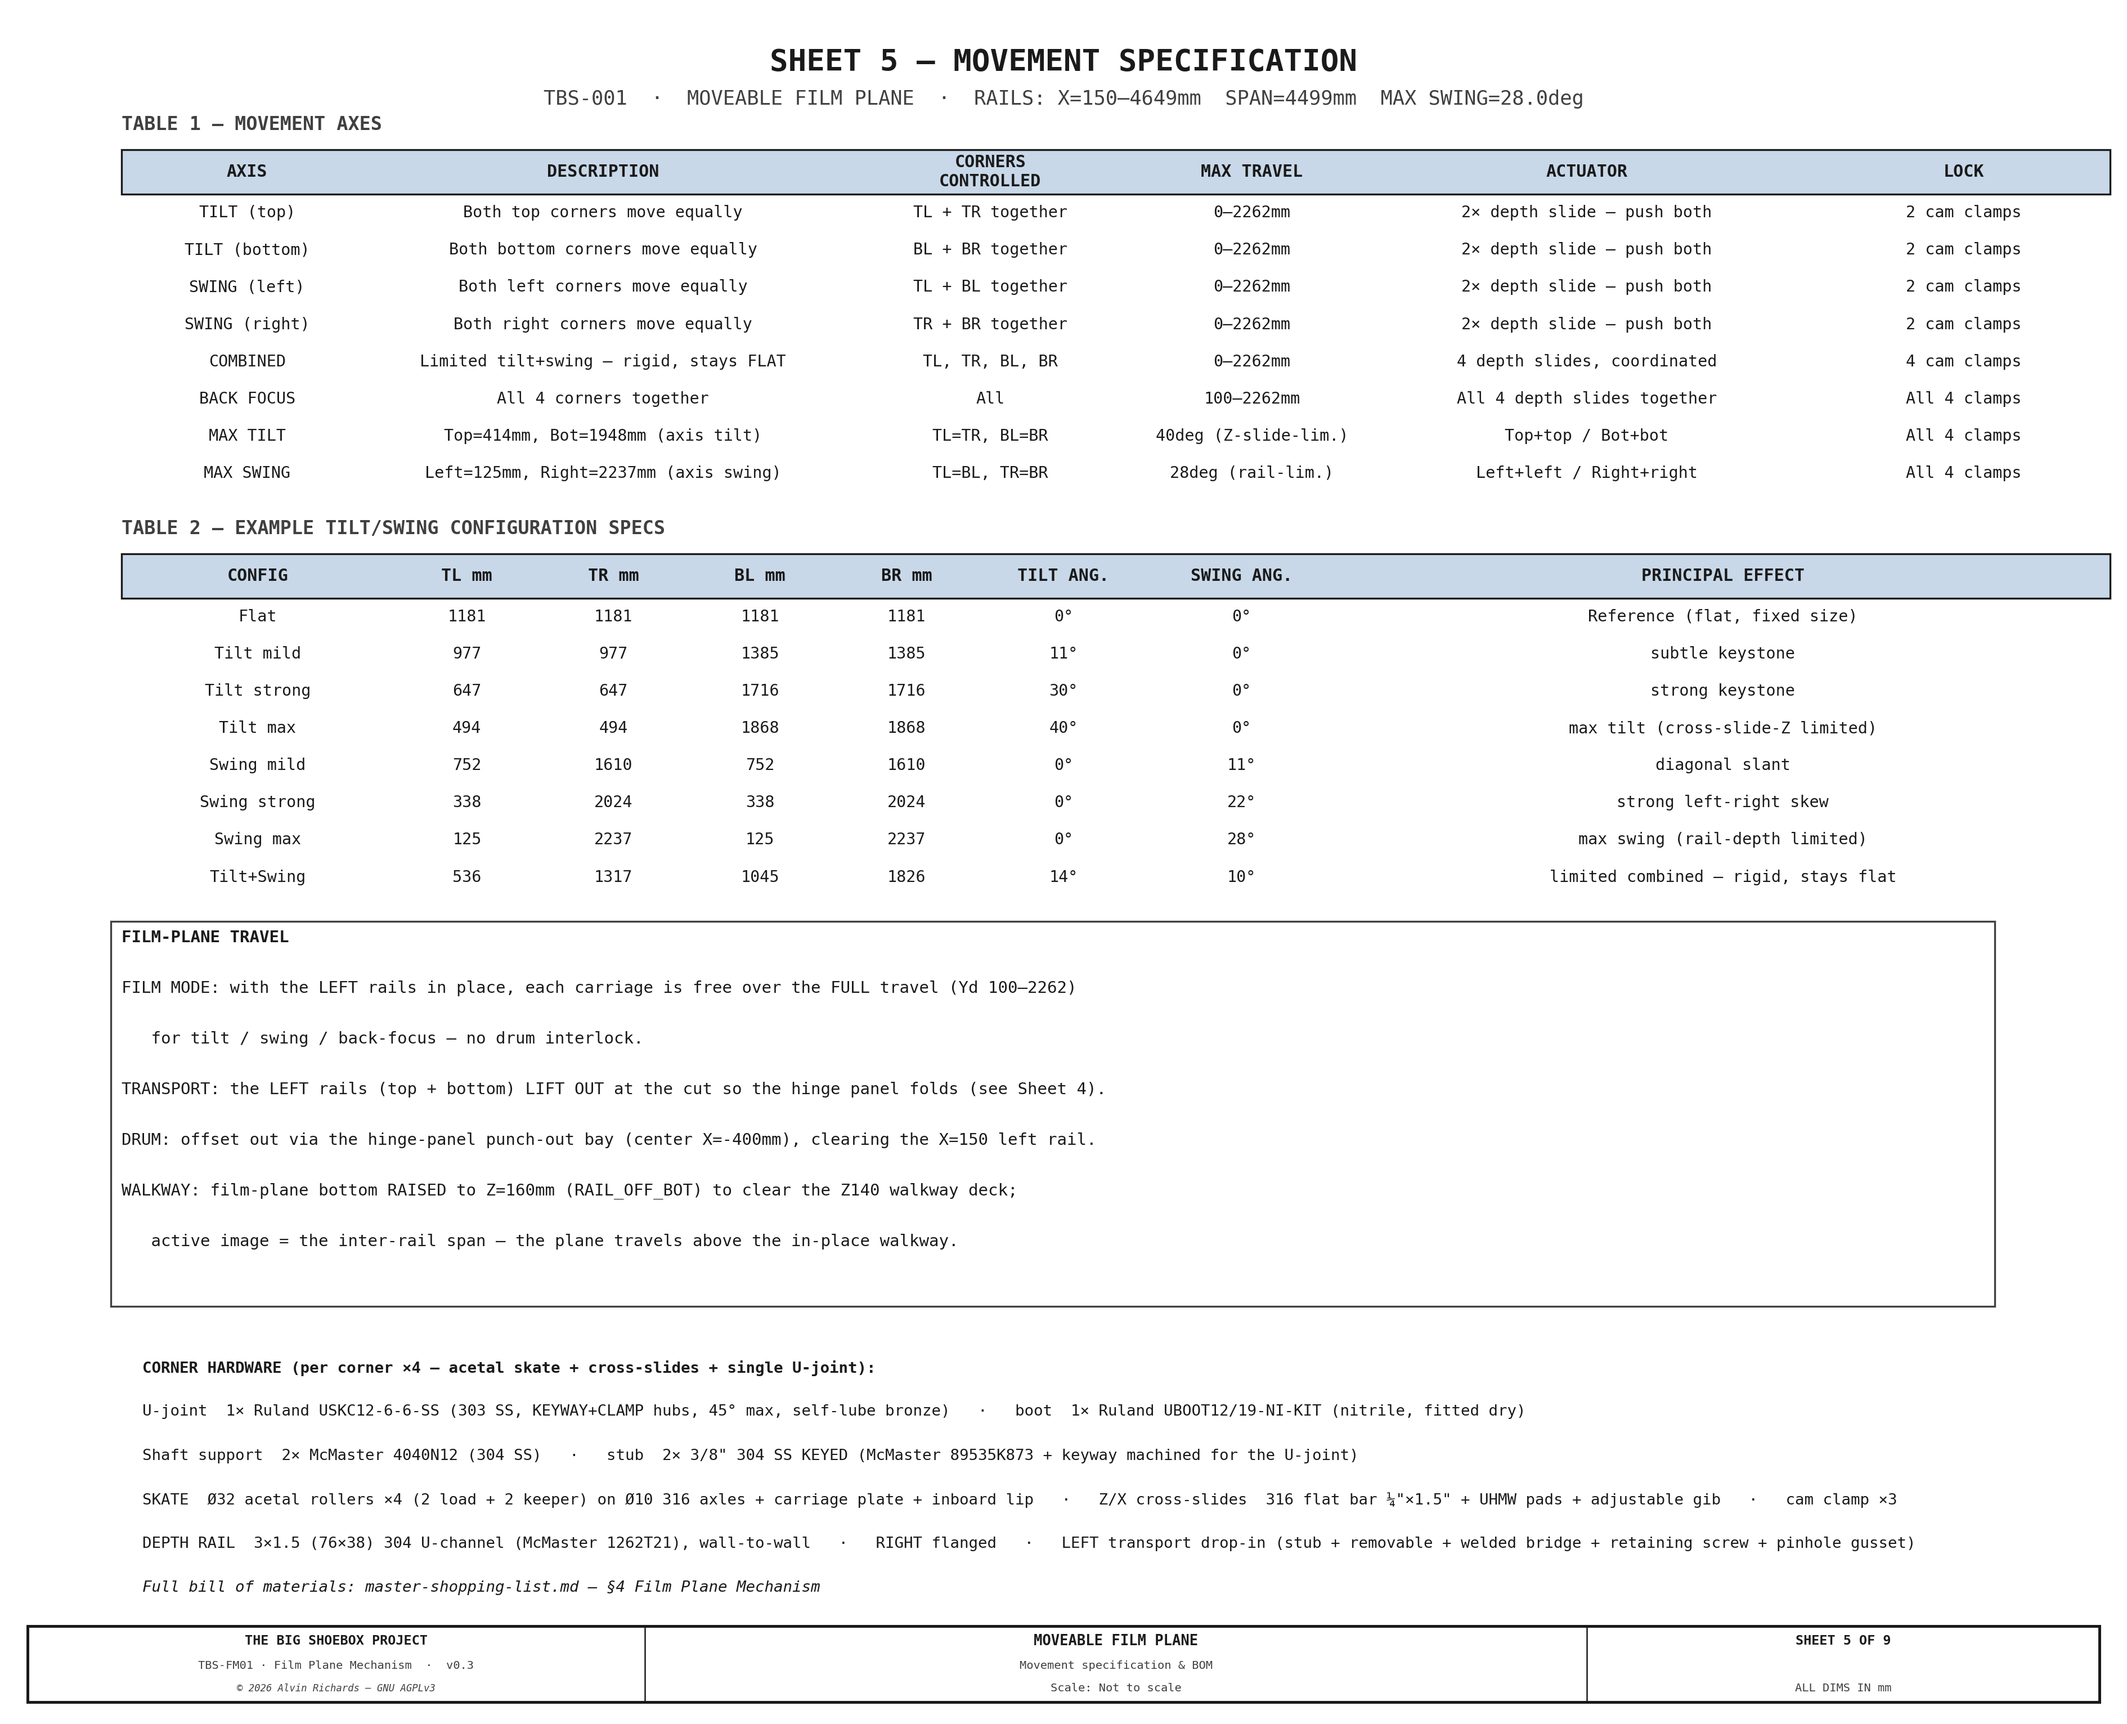
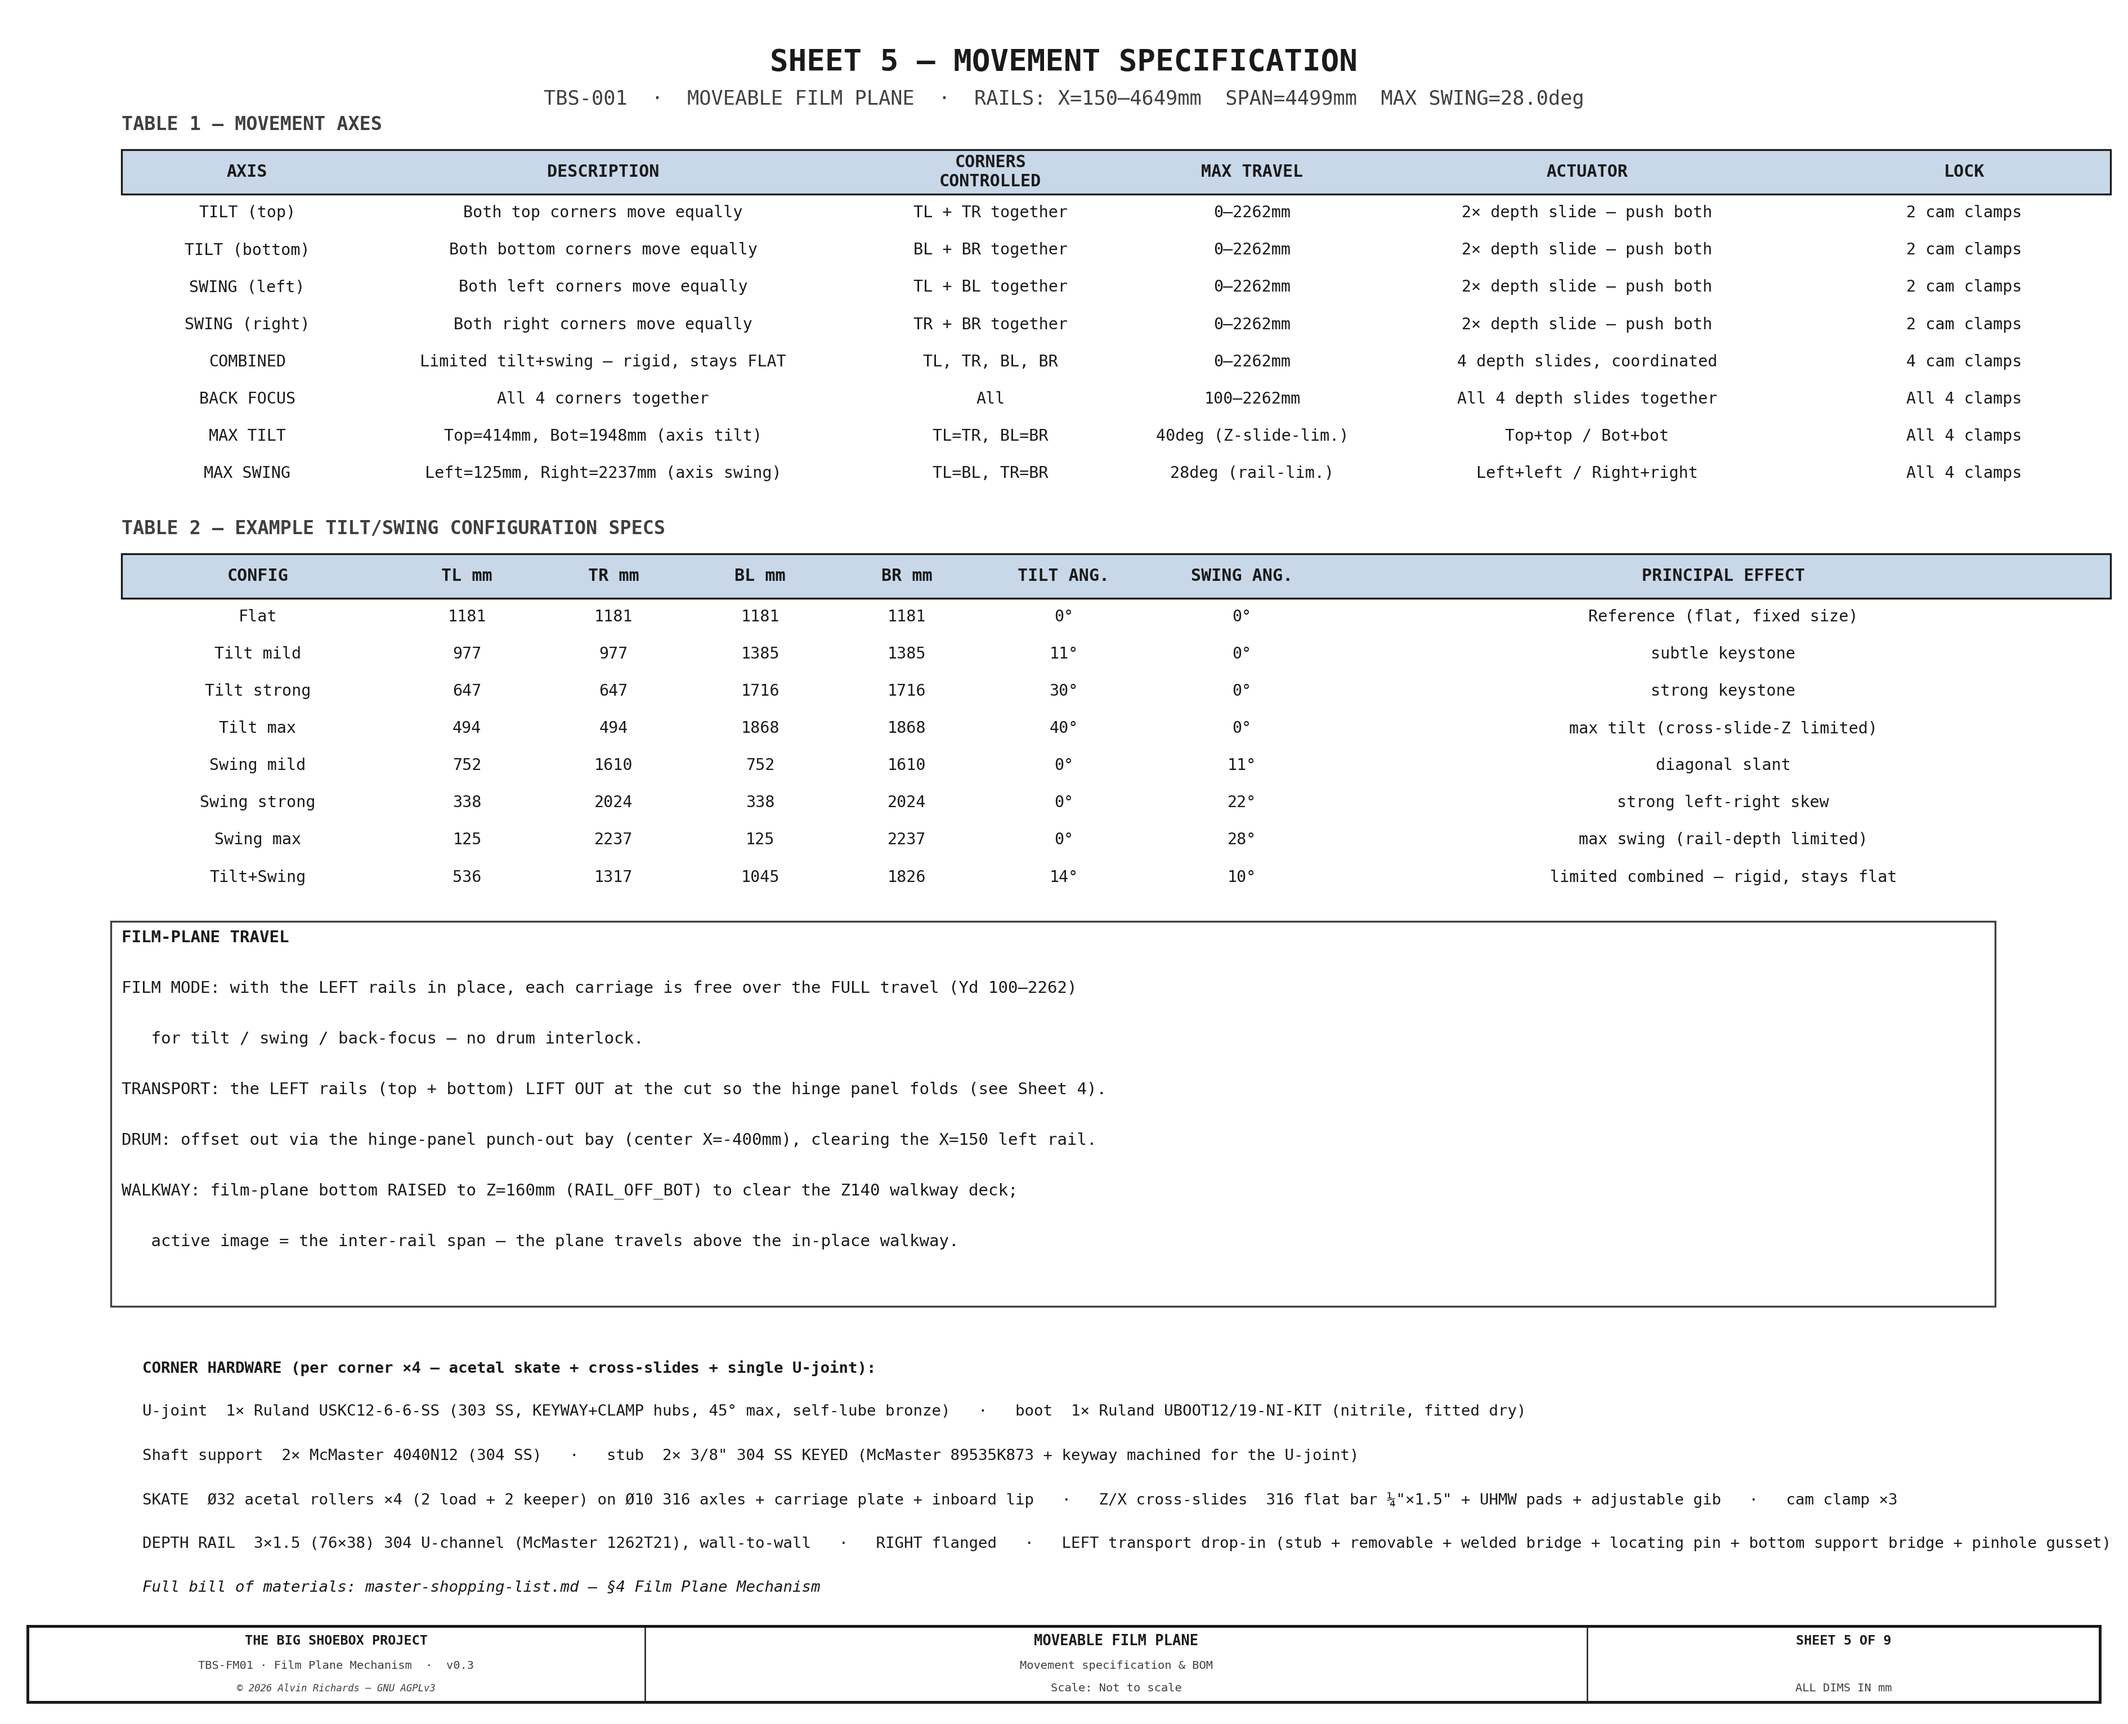
Sheet 4: add bottom support bridge + change retaining screw to locating pin
Sync the 2D to the 3D-review additions:
- Retaining screw → locating PIN, flush to the top of the inner rail (drawing, leader,
  notes 3/5, docstring, Sheet 5 BOM summary).
- New bottom support BRIDGE (welded to the stub, laps under to carry the removable
  beam, ~64mm) drawn under the rail at the cut with its own leader + notes.

diff --git a/src/generators/generate_film_plane_mechanism.py b/src/generators/generate_film_plane_mechanism.py
@@ -1050,8 +1050,8 @@ def transport_elev(ax):
     """LEFT depth rail — TRANSPORT DROP-IN, side elevation (Yd × Z; Yd positions dimensioned, Z schematic).
     For transport the hinge panel folds about the pivot post (Yd PIVOT_YD) and sweeps the X150 rail line, so
     the LEFT rail is SPLIT: a fixed STUB (parks the corner, anchored at the pivot post + far wall) and a
-    REMOVABLE section that lifts out. A welded BRIDGE (welded to the stub) spans the cut; the removable
-    THUMB-SCREWS to it. A length SPLICE at the pinhole end makes 6 ft stock reach; a pinhole-wall GUSSET seats
+    REMOVABLE section that lifts out. A welded BRIDGE (on top, welded to the removable) laps the cut; a
+    locating PIN + a short bottom support bridge secure it. A length SPLICE at the pinhole end makes 6 ft stock reach; a pinhole-wall GUSSET seats
     that end. (RIGHT rail = flanged wall-to-wall, panel at lower right.)"""
     ax.set_xlim(-320, 2660); ax.set_ylim(-235, 185); ax.axis("off")
     rz0, rz1 = 74, 118
@@ -1067,12 +1067,19 @@ def transport_elev(ax):
     # CUT parting line
     ax.plot([LEFT_CUT_YD, LEFT_CUT_YD], [rz0 - 12, rz1 + 14], color=OUT, lw=1.1, dashes=(4, 3), zorder=7)
     # welded BRIDGE — sits ON TOP of the rail at the cut so GRAVITY holds it down; WELDED to the REMOVABLE
-    # (left of cut), it laps + BEARS on the STUB (right of cut). A retaining SCREW into the stub stops it
-    # lifting/sliding (the weight rides the bridge, not the screw).
+    # (left of cut), it laps + BEARS on the STUB (right of cut). A locating PIN drops through it into the
+    # stub — flush to the top of the INNER rail — to stop it lifting/sliding (the weight rides the bridge, not the pin).
     _rect(ax, LEFT_CUT_YD - 96, rz1, 168, 12, C_CAR, z=8)                       # fishplate ON TOP, straddling the cut
     for wx in (LEFT_CUT_YD - 84, LEFT_CUT_YD - 60, LEFT_CUT_YD - 36):           # fillet weld beads (removable side, on top)
         ax.plot([wx, wx + 10], [rz1 + 1, rz1 + 1], color=OUT, lw=2.0, zorder=10)
-    draw_circle(ax, LEFT_CUT_YD + 44, rz1 + 6, 5.5, color=OUT, fill=True, fc=C_PIN, lw=0.9, zorder=11)  # retaining screw (stub side)
+    # locating PIN + hole — through the bridge + top flange; BOTTOM flush to the top of the INNER rail, head on top
+    _flg = 5
+    ax.add_patch(plt.Rectangle((LEFT_CUT_YD + 41, rz1 - _flg), 6, 12 + _flg, fc=C_PIN, ec=OUT, lw=0.7, zorder=11))
+    draw_circle(ax, LEFT_CUT_YD + 44, rz1 + 12, 4, color=OUT, fill=True, fc=C_PIN, lw=0.8, zorder=12)  # pin head, shown on top
+    # bottom support BRIDGE — welded to the STUB, laps UNDER + carries the removable beam (~64mm)
+    _rect(ax, LEFT_CUT_YD - 32, rz0 - 12, 64, 12, C_CAR, z=8)
+    for wx in (LEFT_CUT_YD + 6, LEFT_CUT_YD + 20):                              # fillet weld beads (stub side, underneath)
+        ax.plot([wx, wx + 10], [rz0 - 1, rz0 - 1], color=OUT, lw=2.0, zorder=10)
     # length SPLICE at the pinhole end — on the OUTBOARD WEB-BACK (far side), so shown as a GHOST outline
     ax.add_patch(plt.Rectangle((SPLICE_YD - 55, rz0), 110, rz1 - rz0, fc="none", ec=OUT, lw=1.0, ls=(0, (5, 3)), zorder=8))
     # pinhole-wall gusset/seat (Yd 0)
@@ -1094,7 +1101,9 @@ def transport_elev(ax):
            ha="left", fs=5.8, color=OUT, font=FONT, bbox=LBL_BG)
     leader(ax, 22, rz0 - 18, 60, -58, "pinhole-wall GUSSET / seat",
            ha="left", fs=5.8, color=OUT, font=FONT, bbox=LBL_BG)
-    leader(ax, LEFT_CUT_YD + 44, rz1 + 6, 1380, 150, "welded BRIDGE (ON TOP) — welded to the REMOVABLE; GRAVITY bears it on the STUB;\na retaining SCREW into the stub stops it lifting (weight on the bridge, not the screw)",
+    leader(ax, LEFT_CUT_YD + 44, rz1 + 12, 1380, 150, "welded BRIDGE (ON TOP) — welded to the REMOVABLE; GRAVITY bears it on the STUB;\na locating PIN (flush to the inner-rail top) stops it lifting (weight on the bridge, not the pin)",
+           ha="left", fs=5.8, color=OUT, font=FONT, bbox=LBL_BG)
+    leader(ax, LEFT_CUT_YD, rz0 - 12, LEFT_CUT_YD - 330, -205, "bottom support BRIDGE — welded to the STUB;\nlaps under + carries the removable beam (~64mm)",
            ha="left", fs=5.8, color=OUT, font=FONT, bbox=LBL_BG)
     leader(ax, PIVOT_YD, 30, PIVOT_YD + 30, -150, f"swing PIVOT POST (Ø{PIVOT_POST_OD} CHS)\nanchors the stub — no floor post at the cut",
            ha="left", fs=5.8, color=OUT, font=FONT, bbox=LBL_BG)
@@ -1151,13 +1160,14 @@ def sheet4():
         "bottom) LIFTS OUT. The fixed STUB parks the corner and is anchored at the pivot post + far wall.",
         "3. At the cut: a BRIDGE (fishplate) sits ON TOP and is WELDED to the REMOVABLE beam, lapping onto the "
         "STUB — GRAVITY bears the removable's end on the stub through the bridge (the WEIGHT rides the bridge, "
-        "not the fastener). A retaining SCREW into the stub stops it lifting (hand-releasable): the removable "
-        "drops straight in and the screw stays unloaded. No floor post at the cut — the stub cantilevers only ~"
-        f"{PIVOT_YD - LEFT_CUT_YD}mm from the pivot post, so nothing fouls the sliding carriage.",
+        "not the fastener). A locating PIN drops through into the stub — flush to the top of the INNER rail — "
+        "to stop it lifting (hand-releasable): the removable drops straight in and the pin stays unloaded. A "
+        "short BOTTOM support bridge (~64mm), welded to the stub, laps under to carry the removable's end. No "
+        f"floor post at the cut — the stub cantilevers only ~{PIVOT_YD - LEFT_CUT_YD}mm from the pivot post, so nothing fouls the sliding carriage.",
         "4. Each removable exceeds 6 ft stock, so a length SPLICE sits at the PINHOLE end (Yd ~"
         f"{SPLICE_YD}) — the shortest-throw, least-travelled zone, least likely for the skate to roll over it.",
         "5. The length-SPLICE fishplate sits on the OUTBOARD WEB-BACK (far side, ghosted), clear of the rollers; "
-        "the cut BRIDGE sits on top (gravity-held). U-joint stub→carrier clamp (4040N12) + U-joint body: Sheet 3.",
+        "the cut BRIDGE sits on top (gravity-held) with a short bottom support bridge under. U-joint stub→carrier clamp (4040N12) + U-joint body: Sheet 3.",
     ], 2, 99, 4.1, fs=6.2, title_fs=6.8, color=DIM, width=79, wrap=132, font=FONT)
 
     ax_tb = fig.add_axes([0.03, 0.008, 0.94, 0.052]); ax_tb.set_xlim(0, 1); ax_tb.set_ylim(0, 1)
@@ -1303,7 +1313,7 @@ def sheet5():
         "U-joint  1× Ruland USKC12-6-6-SS (303 SS, KEYWAY+CLAMP hubs, 45° max, self-lube bronze)   ·   boot  1× Ruland UBOOT12/19-NI-KIT (nitrile, fitted dry)",
         "Shaft support  2× McMaster 4040N12 (304 SS)   ·   stub  2× 3/8\" 304 SS KEYED (McMaster 89535K873 + keyway machined for the U-joint)",
         "SKATE  Ø32 acetal rollers ×4 (2 load + 2 keeper) on Ø10 316 axles + carriage plate + inboard lip   ·   Z/X cross-slides  316 flat bar ¼\"×1.5\" + UHMW pads + adjustable gib   ·   cam clamp ×3",
-        "DEPTH RAIL  3×1.5 (76×38) 304 U-channel (McMaster 1262T21), wall-to-wall   ·   RIGHT flanged   ·   LEFT transport drop-in (stub + removable + welded bridge + retaining screw + pinhole gusset)",
+        "DEPTH RAIL  3×1.5 (76×38) 304 U-channel (McMaster 1262T21), wall-to-wall   ·   RIGHT flanged   ·   LEFT transport drop-in (stub + removable + welded bridge + locating pin + bottom support bridge + pinhole gusset)",
         "Full bill of materials: master-shopping-list.md — §4 Film Plane Mechanism",
     ]
     hw_top, hw_lh = 0.205, 0.026
